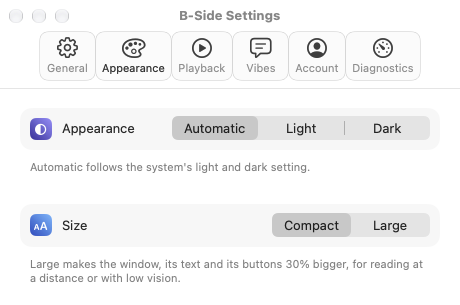
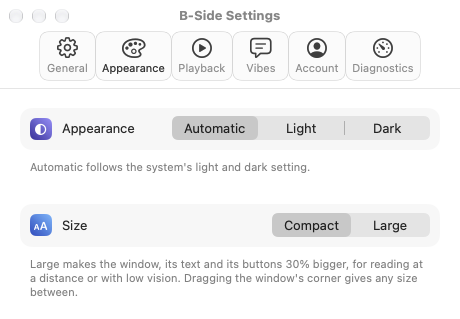
The window drags to any size from Compact to Large
Everything in the window is laid out from Theme.scale, 1 to 1.3, and the
window's corner now sets it: the window resizes between 320×440 and
416×572, keeping its shape (NSWindow.aspectRatio). A layout exists for one
scale only, so while the corner is dragged the content is scaled as a
picture, and when the drag ends, or the zoom button is used, WindowSize
stores the new scale and the window's content is built again at it.
Settings' Compact and Large take the window to either end the same way;
the picker shows the end the window is nearer to. The old Compact/Large
setting is read once, as the starting scale.

A test run no longer saves the window's frame into the user's defaults
(SwiftUI's NSWindow Frame autosave): the captures move the window off the
screen and resize it, and the user's window opened there next. Snapshots
ignore resizes. `-captureWidth 400` and `"400 end"` capture the window
while dragged and after the drag.

diff --git a/Sources/BSide/App/Settings.swift b/Sources/BSide/App/Settings.swift
@@ -14,7 +14,8 @@ enum Keys {
     static let bluetoothOutputs = "bluetoothOutputs" // asked to see paired Bluetooth devices in Sound Output
     static let playlistOrder = "playlistOrder"   // the user's order of the playlists, by ID
     static let theme = "theme"                   // ThemeMode: system, light or dark
-    static let uiSize = "uiSize"                 // UISize: compact or large
+    static let uiSize = "uiSize"                 // UISize: compact or large (before 0.2; see uiScale)
+    static let uiScale = "uiScale"               // what Theme multiplies sizes by: 1 to 1.3, from the window's size
     static let repeatMode = "repeatMode"         // RepeatMode: off, all or one
     static let vibeServer = "vibeServer"         // read vibe words on the B-Side server (off by default)
     static let vibeServerAddress = "vibeServerAddress" // that server's address
@@ -38,6 +39,7 @@ enum Keys {
     static let proxy = "proxy"                   // debug: host:port of an HTTP CONNECT proxy for all traffic
     static let captureTo = "captureTo"           // debug: write pictures of the real window into this folder…
     static let captureAt = "captureAt"           // …at these seconds after launch, "5,20,60"
+    static let captureWidth = "captureWidth"     // debug: the window's width before the pictures; "400" scaled as while dragged, "400 end" laid out again
     static let scratch = "scratch"               // debug: settings and the last session in a throwaway domain
 }
 
@@ -47,7 +49,7 @@ enum Settings {
     /// user's settings.
     static let isSnapshot = UserDefaults.standard.string(forKey: Keys.snapshot) != nil
     /// A test run: it must not touch the user's settings or their last session.
-    private static let isScratch = isSnapshot || UserDefaults.standard.bool(forKey: Keys.scratch)
+    static let isScratch = isSnapshot || UserDefaults.standard.bool(forKey: Keys.scratch)
     /// The sample data a snapshot sets (volume, Vibe tiles) goes to a scratch
     /// domain, emptied before and after, instead of the user's settings.
     static let defaults: UserDefaults = isScratch ? scratch : .standard
@@ -109,18 +111,28 @@ enum ThemeMode: String, CaseIterable, Identifiable {
     }
 }
 
-/// Settings, Appearance: the size of everything in the window and the menu.
-/// Large is for reading at a distance or with low vision.
+/// Settings, Appearance: the two ends of the window's size. Large is for
+/// reading at a distance or with low vision; the window is dragged to any
+/// size between the two (Theme.scale).
 enum UISize: String, CaseIterable, Identifiable {
     case compact, large
 
     var id: String { rawValue }
     var title: String { self == .compact ? "Compact" : "Large" }
     /// What Theme multiplies type, spacing and sizes by.
-    var scale: CGFloat { self == .compact ? 1 : 1.3 }
+    var scale: CGFloat { self == .compact ? Theme.scaleRange.lowerBound : Theme.scaleRange.upperBound }
 
-    static var current: UISize {
-        UISize(rawValue: Settings.defaults.string(forKey: Keys.uiSize) ?? "") ?? .compact
+    /// The end the window is nearer to.
+    static func nearest(_ scale: CGFloat) -> UISize {
+        scale < (UISize.compact.scale + UISize.large.scale) / 2 ? .compact : .large
+    }
+
+    /// The scale kept in the defaults: the window's last size, or the
+    /// Compact / Large setting from before the window could be dragged.
+    static var currentScale: CGFloat {
+        let kept = Settings.defaults.double(forKey: Keys.uiScale)
+        if kept > 0 { return min(max(kept, Theme.scaleRange.lowerBound), Theme.scaleRange.upperBound) }
+        return (UISize(rawValue: Settings.defaults.string(forKey: Keys.uiSize) ?? "") ?? .compact).scale
     }
 }
 

diff --git a/Sources/BSide/Views/Window/PlayerWindow.swift b/Sources/BSide/Views/Window/PlayerWindow.swift
@@ -19,6 +19,10 @@ struct PlayerWindow: View {
     @State private var pageDipped = false
     /// Not hidden, minimised or covered by other windows.
     @State private var windowVisible = true
+    /// The window's width while its corner is dragged. Over the width the
+    /// content is laid out at, it scales the content until the drag ends
+    /// and the layout is made again (WindowSize).
+    @State private var windowWidth: CGFloat = Theme.Size.window.width
     @Environment(\.accessibilityReduceMotion) private var reduceMotion
     @Environment(\.openWindow) private var openWindow
 
@@ -85,8 +89,23 @@ struct PlayerWindow: View {
         .onPreferenceChange(TintBottomKey.self) { tintBottom = $0 }
         .ignoresSafeArea(edges: .top)
         .frame(width: Theme.Size.window.width, height: Theme.Size.window.height - topInset)
+        .scaleEffect(windowWidth / Theme.Size.window.width, anchor: .top)
+        .frame(minWidth: Theme.Size.windowBase.width * Theme.scaleRange.lowerBound,
+               maxWidth: Theme.Size.windowBase.width * Theme.scaleRange.upperBound,
+               minHeight: Theme.Size.windowBase.height * Theme.scaleRange.lowerBound - topInset,
+               maxHeight: Theme.Size.windowBase.height * Theme.scaleRange.upperBound - topInset,
+               alignment: .top)
+        .onGeometryChange(for: CGFloat.self) { $0.size.width } action: { windowWidth = $0 }
         .onGeometryChange(for: CGFloat.self) { $0.safeAreaInsets.top } action: { topInset = $0 }
         .background(WindowSetup())
+        .onReceive(NotificationCenter.default.publisher(for: NSWindow.didEndLiveResizeNotification)) { note in
+            guard let window = note.object as? NSWindow, window === MainWindow.window else { return }
+            WindowSize.resized(window)
+        }
+        .onReceive(NotificationCenter.default.publisher(for: NSWindow.didResizeNotification)) { note in
+            guard let window = note.object as? NSWindow, window === MainWindow.window else { return }
+            WindowSize.resized(window)
+        }
         .onReceive(NotificationCenter.default.publisher(for: NSWindow.didChangeOcclusionStateNotification)) { note in
             guard let window = note.object as? NSWindow, window === MainWindow.window else { return }
             windowVisible = window.occlusionState.contains(.visible)

diff --git a/Sources/BSide/App/WindowSize.swift b/Sources/BSide/App/WindowSize.swift
@@ -1,0 +1,42 @@
+import AppKit
+
+/// The window's size, from Compact to Large. Everything in the window is
+/// laid out from Theme.scale, so a new size means the window built again;
+/// while the corner is dragged, the content is scaled as a picture instead,
+/// and the real layout follows when the mouse is let go.
+@MainActor
+enum WindowSize {
+    /// What the window's width asks for: its scale, within the range.
+    static func scale(forWidth width: CGFloat) -> CGFloat {
+        min(max(width / Theme.Size.windowBase.width, Theme.scaleRange.lowerBound), Theme.scaleRange.upperBound)
+    }
+
+    /// Lays the window out at this scale, and sizes it to match unless it
+    /// already does (the end of a drag). Storing the scale builds the
+    /// window's content again (BSideApp).
+    static func set(_ wanted: CGFloat) {
+        let scale = (min(max(wanted, Theme.scaleRange.lowerBound), Theme.scaleRange.upperBound) * 100).rounded() / 100
+        guard scale != Theme.scale else { return }
+        Theme.scale = scale
+        Settings.defaults.set(Double(scale), forKey: Keys.uiScale)
+        guard let window = MainWindow.window else { return }
+        let size = Theme.Size.window
+        guard abs(window.frame.width - size.width) > 1 else { return }
+        var frame = window.frame
+        frame.origin.y += frame.height - size.height // the top edge stays
+        frame.size = size
+        settingFrame = true
+        window.setFrame(frame, display: true, animate: true)
+        settingFrame = false
+    }
+
+    private static var settingFrame = false
+
+    /// The window's size changed: the end of a drag of its corner, or the
+    /// zoom button, or Settings. The layout catches up once the size has
+    /// settled (not on every step of a drag, and not on our own resize).
+    static func resized(_ window: NSWindow) {
+        guard !window.inLiveResize, !settingFrame, !Settings.isSnapshot else { return }
+        set(scale(forWidth: window.frame.width))
+    }
+}

diff --git a/Sources/BSide/Diagnostics/Capture.swift b/Sources/BSide/Diagnostics/Capture.swift
@@ -5,10 +5,18 @@ import SwiftUI
 /// under a bad network without a screen. `-captureTo <folder>` with
 /// `-captureAt 5,20,60` writes every page at those seconds after launch;
 /// the window is moved off the screen first. Works with `-proxy`.
+/// `-captureWidth 400` resizes the window first, as a drag of its corner
+/// does; `-captureWidth "400 end"` also ends the drag, so the layout is
+/// made again at that size.
 @MainActor
 enum Capture {
+    private static var scheduled = false
+
+    /// Once: the window's content is built again at a new size, and its
+    /// task with it.
     static func schedule(navigation: Navigation) {
-        guard let folder = Settings.defaults.string(forKey: Keys.captureTo) else { return }
+        guard let folder = Settings.defaults.string(forKey: Keys.captureTo), !scheduled else { return }
+        scheduled = true
         let seconds = (Settings.defaults.string(forKey: Keys.captureAt) ?? "5")
             .split(separator: ",").compactMap { Double($0.trimmingCharacters(in: .whitespaces)) }
         try? FileManager.default.createDirectory(atPath: folder, withIntermediateDirectories: true)
@@ -29,6 +37,14 @@ enum Capture {
             window.setFrameOrigin(NSPoint(x: -4000, y: -4000))
             window.alphaValue = 1
             window.orderFrontRegardless()
+        }
+        if let words = Settings.defaults.string(forKey: Keys.captureWidth)?.split(separator: " "), let width = Double(words[0]) {
+            var frame = window.frame
+            frame.size = CGSize(width: width, height: width / Theme.Size.windowBase.width * Theme.Size.windowBase.height)
+            window.setFrame(frame, display: true)
+            try? await Task.sleep(for: .seconds(0.5))
+            if words.last == "end" { WindowSize.resized(window) }
+            try? await Task.sleep(for: .seconds(1))
         }
         let shown = navigation.page
         for page in Page.allCases {

diff --git a/Sources/BSide/Design/Theme.swift b/Sources/BSide/Design/Theme.swift
@@ -3,12 +3,14 @@ import SwiftUI
 /// The tokens from DESIGN.md. Screens take colours, type, spacing, radii and
 /// sizes from here and nowhere else; scripts/check-design.sh enforces it.
 ///
-/// Type, spacing, radii and sizes are multiplied by `scale`: 1 for the
-/// Compact size, 1.3 for Large (Settings, Appearance). Colours, opacities,
-/// ratios and timings are not.
+/// Type, spacing, radii and sizes are multiplied by `scale`: 1 at the
+/// Compact size, 1.3 at Large, and whatever the window was dragged to in
+/// between. Colours, opacities, ratios and timings are not.
 enum Theme {
-    /// Set from Settings before the window is built again; see UISize.
-    static var scale: CGFloat = UISize.current.scale
+    /// Set by WindowSize before the window is built again; see UISize.
+    static var scale: CGFloat = UISize.currentScale
+    /// From Compact to Large: the window resizes between the two.
+    static let scaleRange: ClosedRange<CGFloat> = 1...1.3
 
     /// Semantic colours. Light and dark values live in the asset catalog
     /// (Assets.xcassets/Colors) and follow the system appearance.
@@ -69,7 +71,9 @@ enum Theme {
     }
 
     enum Size {
-        static var window: CGSize { CGSize(width: 320 * scale, height: 440 * scale) }
+        static var window: CGSize { CGSize(width: windowBase.width * scale, height: windowBase.height * scale) }
+        /// The window at scale 1; the window keeps this shape at every size.
+        static let windowBase = CGSize(width: 320, height: 440)
         /// The system's title bar; the bar with the page tabs grows with the
         /// size, the system's does not.
         static let titleBar: CGFloat = 28

diff --git a/Sources/BSide/Views/Settings/AppearanceSettings.swift b/Sources/BSide/Views/Settings/AppearanceSettings.swift
@@ -4,7 +4,7 @@ import SwiftUI
 /// Light or dark, and the size of everything in the window.
 struct AppearanceSettings: View {
     @AppStorage(Keys.theme) private var theme = ThemeMode.system.rawValue
-    @AppStorage(Keys.uiSize) private var size = UISize.compact.rawValue
+    @AppStorage(Keys.uiScale, store: Settings.defaults) private var scale = 0.0
 
     private var themeMode: Binding<ThemeMode> {
         Binding {
@@ -15,13 +15,13 @@ struct AppearanceSettings: View {
         }
     }
 
-    /// Theme's scale changes first, so the window is built again at the new size.
+    /// The end the window is nearer to; choosing one takes the window there.
     private var uiSize: Binding<UISize> {
         Binding {
-            UISize(rawValue: size) ?? .compact
+            _ = scale // read, so the picker follows a change of the size
+            return UISize.nearest(Theme.scale)
         } set: { new in
-            Theme.scale = new.scale
-            size = new.rawValue
+            WindowSize.set(new.scale)
         }
     }
 
@@ -47,7 +47,7 @@ struct AppearanceSettings: View {
                 }
                 .pickerStyle(.segmented)
             } footer: {
-                Text("Large makes the window, its text and its buttons 30% bigger, for reading at a distance or with low vision.")
+                Text("Large makes the window, its text and its buttons 30% bigger, for reading at a distance or with low vision. Dragging the window's corner gives any size between.")
                     .font(.subheadline)
                     .foregroundStyle(.secondary)
             }

diff --git a/Sources/BSide/App/MainWindow.swift b/Sources/BSide/App/MainWindow.swift
@@ -33,6 +33,11 @@ enum MainWindow {
     /// Called when the window's content is attached to it.
     static func attach(_ window: NSWindow) {
         self.window = window
+        window.aspectRatio = Theme.Size.windowBase // the frame: the hidden title bar is inside the content
+        // SwiftUI keeps the window's frame in the standard defaults, which a
+        // test run must leave alone: its window is moved off the screen and
+        // resized, and the user's window would open there next time.
+        if Settings.isScratch { window.setFrameAutosaveName("") }
         if hiddenAtLaunch { hide(window) }
         // Debug captures: the window stays off the screen (Capture).
         if Settings.defaults.string(forKey: Keys.captureTo) != nil { window.setFrameOrigin(NSPoint(x: -4000, y: -4000)) }

diff --git a/Sources/BSide/App/BSideApp.swift b/Sources/BSide/App/BSideApp.swift
@@ -6,7 +6,7 @@ struct BSideApp: App {
     @StateObject private var player = PlayerController()
     @StateObject private var navigation = Navigation()
     /// Changing the size builds the window again, at the new size.
-    @AppStorage(Keys.uiSize) private var uiSize = UISize.compact.rawValue
+    @AppStorage(Keys.uiScale, store: Settings.defaults) private var uiScale = 0.0
 
     init() {
         Settings.register()
@@ -17,7 +17,7 @@ struct BSideApp: App {
             PlayerWindow()
                 .environmentObject(player)
                 .environmentObject(navigation)
-                .id(uiSize)
+                .id(uiScale)
         }
         .windowStyle(.hiddenTitleBar)
         .windowResizability(.contentSize)

diff --git a/docs/DEVELOPMENT.md b/docs/DEVELOPMENT.md
@@ -100,6 +100,7 @@ exist only as arguments:
 | `-snapshotOnly <words>` | With `-snapshot`: only the pages whose file name has the words in it |
 | `-proxy 127.0.0.1:8899` | Sends the page and every other request through an HTTP CONNECT proxy, for trying a slow or broken network |
 | `-captureTo <folder> -captureAt 5,20,60` | Writes pictures of the real window, every page, at those seconds after launch; the window is moved off the screen |
+| `-captureWidth 400` | With `-captureTo`: the window at that width first, scaled as while its corner is dragged; `"400 end"` lays it out again at that size, as the end of the drag does |
 | `-scratch YES` | Settings, vibes and the last session come from a throwaway domain, so a test run leaves yours alone (the Google session is shared either way) |
 | `-ApplePersistenceIgnoreState YES` | macOS: skips the "restore windows?" prompt after a killed run |
 

diff --git a/docs/ARCHITECTURE.md b/docs/ARCHITECTURE.md
@@ -125,6 +125,13 @@ The window is three pages side by side in a paging scroll view, a glass bar
 on top and the strip with the current track at the bottom.
 [design/SCREENS.md](../design/SCREENS.md) has one spec per screen.
 
+Every size in Theme is multiplied by `Theme.scale`, 1 to 1.3: the window
+drags between the Compact and Large sizes, keeping its shape. A layout
+exists for one scale only, so while the corner is dragged the content is
+scaled as a picture, and when the drag ends `WindowSize` stores the new
+scale and the window's content is built again at it (`.id` in BSideApp).
+Settings' Compact and Large take the window to either end the same way.
+
 `Snapshots.swift` renders every page in every state with fixture data,
 without the player. That is how a change is checked without clicking through
 the app; see [DEVELOPMENT.md](DEVELOPMENT.md).

diff --git a/README.md b/README.md
@@ -37,8 +37,8 @@ The pictures are rendered by the app itself with sample data.
   "Open at login" on, the Play key starts B-Side instead of Apple Music.
 - **The last track is back** when you open B-Side again, paused where it
   stopped.
-- Light and dark, a larger size for reading at a distance, Reduce Motion and
-  Reduce Transparency are respected.
+- Light and dark; the window drags to any size up to 30% larger, for
+  reading at a distance; Reduce Motion and Reduce Transparency are respected.
 - Works without an account for search and radios; your library needs you to
   sign in to Google.
 
